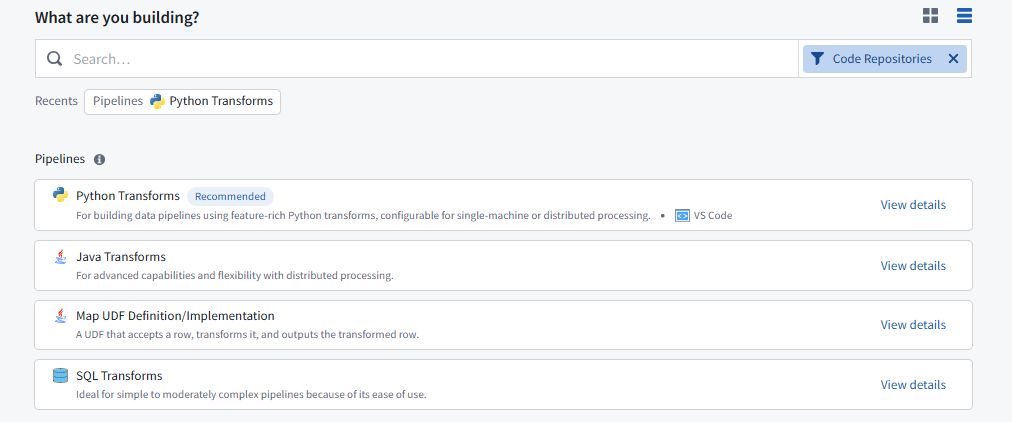
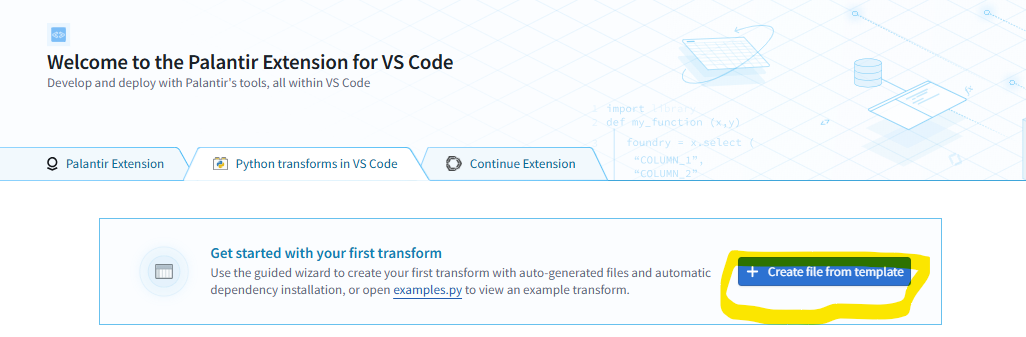
temp

diff --git a/_teaching/Palantir-simpleIngest.md b/_teaching/Palantir-simpleIngest.md
@@ -37,11 +37,149 @@ code-repository/
 └── ci.yml                          ← CI pipeline definition
 ```
 
-![alt text](images/palantir/image-4.png)
+![alt text](images/palantir/image-simpleingest1.png)
 
+
+![alt text](images/palantir/image-simpleingest2.png)
+
+Give at a name and a folder where it needs to reside. Use the option to open via VSCode and now we are ready to go. They provide an option to use a template. 
+
+![alt text](images/palantir/image-simpleingest3.png)
+
+Since I am starting out, using the template option.
 
 ![alt text](image-4.png)
 
-Give at a name and a folder where it needs to reside.
+Before we get into design, there is something which did escape me and create some confusion is below
+### Registration and Runtime Layer 
+
+```
+┌─────────────────────────────────────────────────┐
+│  REGISTRATION LAYER (static, fixed at check-in) │
+│  → Input(), Output(), Source()                   │
+├─────────────────────────────────────────────────┤
+│  RUNTIME LAYER (configurable per build)          │
+│  → StringParam(), IntegerParam(), BooleanParam() │
+└─────────────────────────────────────────────────┘
+```
+
+#### 1. Output() — Where data goes
+What it is: Declares the dataset that your transform will write to.
+
+How to use it:
+```python
+output = Output("/my-project/data/clean-customers")
+```
+Limitations:
+- Must be a fixed path or RID — cannot be dynamic
+- One transform can have multiple outputs, but each must be declared explicitly
+- The path is resolved when the code is registered (checked in), not at build time
+
+#### 2. Input() — Where data comes from
+What it is: Declares a Foundry dataset that your transform reads as input.
+
+How to use it:
+```python
+db_config = Input("ri.foundry.main.dataset.ec675cfe-c4ac-4b43-b238-2528be816ce3")
+# or
+raw_data = Input("/my-project/data/raw-customers")
+```
+Limitations:
+- Must be a fixed path or RID — cannot be dynamic
+- Foundry uses this to build the dependency graph (knows what to build first)
+- Cannot read from a dataset that isn't declared as an Input
+
+#### 3. Source() / @external_systems — Connection to the outside world
+What it is: Declares a connection to an external system (database, API, cloud storage) configured in Data Connection.
+
+How to use it:
+```python
+@external_systems(postgresql_dc=Source("ri.magritte..source.312ffc80-xxxx"))
+```
+Limitations:
+- Must be a fixed source RID — cannot be dynamic
+- The source must already exist in Data Connection
+- Security and network egress policies are tied to the source at registration
+- You still need to write the query/fetch logic inside the function
+
+#### 4. StringParam(), IntegerParam(), BooleanParam() — Runtime configuration
+What they are: Configurable values that can be changed per build without modifying code.
+How to use them:
+```python
+filter_column = StringParam("customer_name")   # default: "customer_name"
+min_records = IntegerParam(100)                 # default: 100
+include_nulls = BooleanParam(False)            # default: False
+```
+What they're good for:
+- Controlling filter logic, thresholds, feature flags
+- Changing table names or queries sent to an external system
+- Toggling behavior without a code change
+
+Limitations:
+- Can only be used inside the transform function (runtime logic)
+- Cannot be used to set Input(), Output(), or Source() paths
+- Values are set at build time (via UI or schedule configuration)
+- Types are limited to: String, Integer, Boolean
+
+
+## Design
+
+Now lets get to the design
+
+I would like this to scale to mutiple tables and eventually multiple databases. First we will try multiple tables and then pivot
+
+
+```
+┌─────────────────────────────┐
+│  Data Connection Source      │  ← PASSWORD
+└─────────────────────────────┘
+
+┌─────────────────────────────┐
+│  Config Dataset (Foundry)    │  ← host, port, username, database (not in Git)
+└─────────────────────────────┘
+
+┌─────────────────────────────┐
+│  Code Repository (internal)  │  ← Only logic + table_config.json
+└─────────────────────────────┘
+```
+
+I chose to separate my PostgreSQL ingestion pipeline into three layers because I need to promote this to production, and I don't want sensitive infrastructure details leaking into Git.
+
+### Why I'm using a Data Connection Source for credentials
+I store my PostgreSQL username and password in Foundry's Data Connection Source because it's the platform's built-in secret store. Foundry encrypts these values, controls who can access them, and provides audit logging. When my transform runs, it calls get_secret("PASSWORD") at runtime — the actual credential never appears in my code or Git history. If I rotate my database password, I update it once in the source and all my transforms pick it up automatically without a code change.
+
+>> Note: Since I am using my own code to connect, need to intall psycopg2. We mention this inside meta-yaml
+
+![alt text](image-6.png)
+
+also to execute the testing in the vscode we need to install the same
+
+```
+maestro env conda install psycopg2
+```
+
+### Why I'm using a config dataset for connection details
+I don't want my database hostname, port, or database name in Git either. Even though these aren't secrets in the traditional sense, they reveal my infrastructure — where my database lives, what cloud provider I use, what port it's on. That's information I'd rather not have in version control. By storing it in a Foundry dataset, I can:
+- Control who sees it with dataset-level permissions
+- Change it without a code commit (e.g., if my Supabase instance migrates)
+- Have different config datasets per environment (dev, staging, prod) without branching my code
+
 ![alt text](image-5.png)
+
+### Why I'm using a JSON config file for table mappings
+My table_config.json lists which PostgreSQL tables to ingest and where each one lands in Foundry. This IS something I want in Git because:
+- It's not sensitive — table names like public.customers don't expose anything
+- I want it reviewed in PRs when someone adds a new table
+- I want Git history showing when and why a table was added or removed
+- When I promote to production, the table mappings are part of my deployment — they should travel with the code
+
+### Why this works for production promotion
+When I move from dev to prod, I:
+- Don't touch the code — the Python logic is environment-agnostic
+- Create a new source in prod — with prod credentials, same get_secret() calls work
+- Create a new config dataset in prod — with the prod hostname/port
+- Deploy the same repo — only update the source RID and config dataset path
+- Nothing is hardcoded. Nothing sensitive is in Git. Every piece of configuration is managed through Foundry's governed, auditable services.
+
+
 
